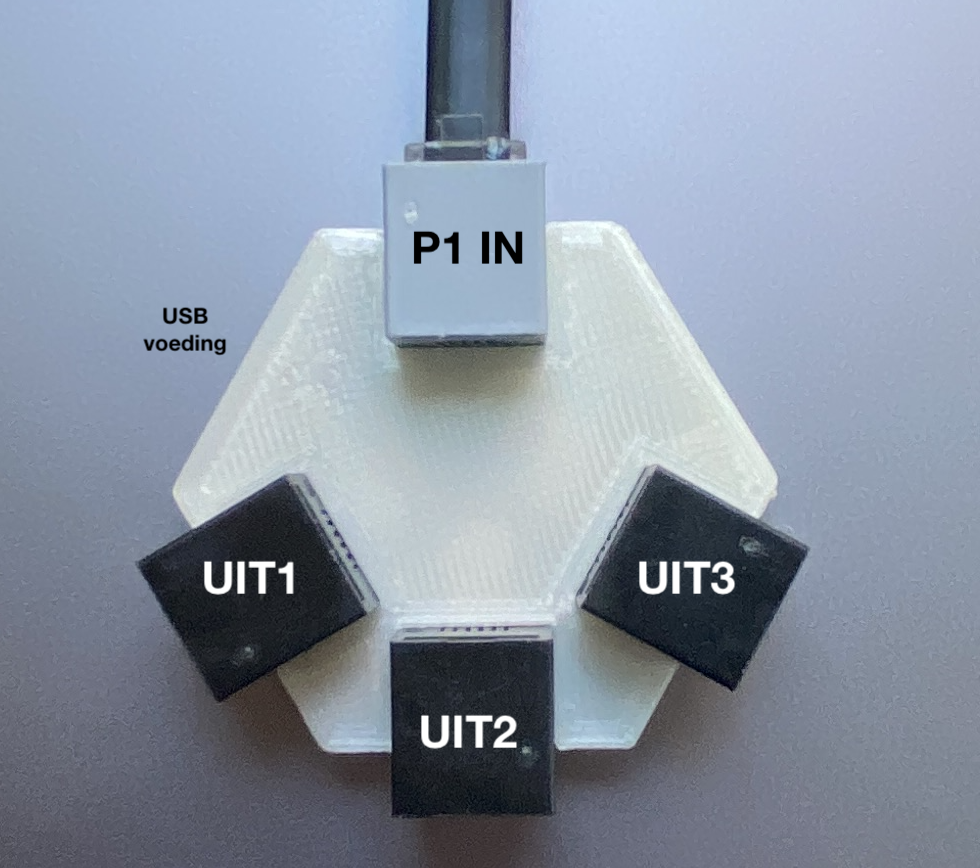
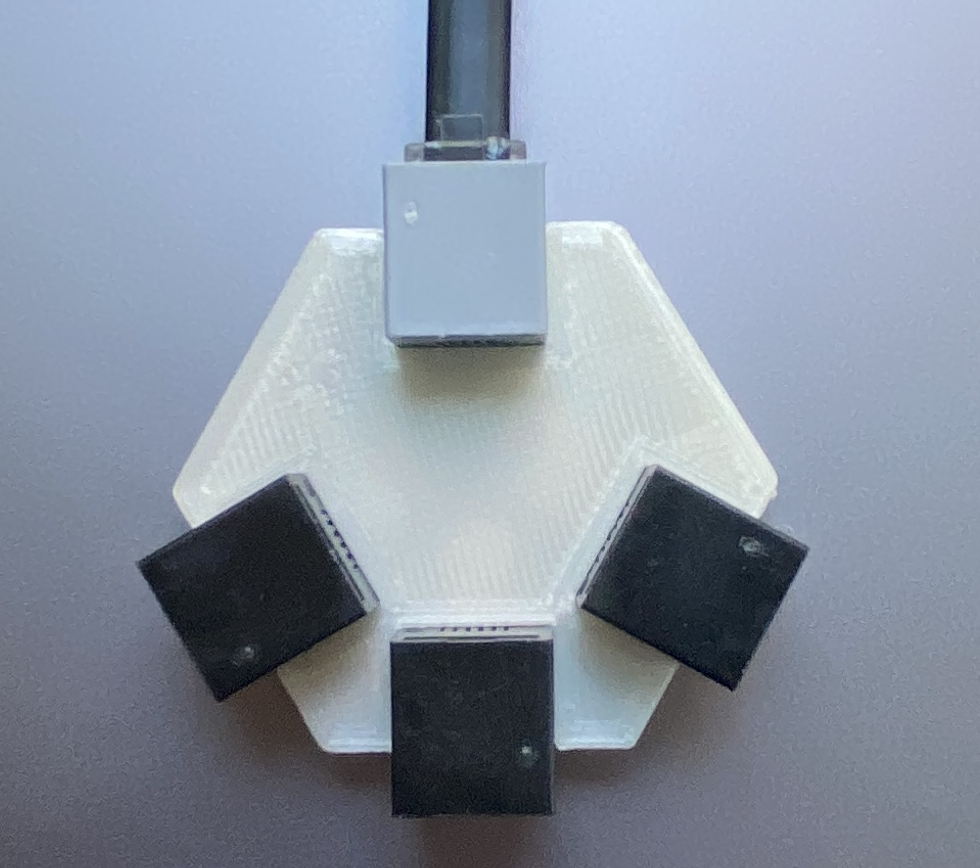
no message

diff --git a/manuals/Waterlezer/README.md b/manuals/Waterlezer/README.md
@@ -27,7 +27,7 @@ Watermeters met een metalen plaatje op de kleine wijzer zijn geschikt voor deze 
 Ook dient de sensor zo te zitten dat deze 1 keer per omwenteling een signaal opneemt. Dit kan je aan de sensor zien doordat het rode lampje gaat branden. Sensor zit normaal gesproken recht boven deze wijzer maar dan iets verschoven van het midden van deze wijzer.
 Maak de sensor vast met meegeleverde klittenband of met de sensor houder, zie onderstaande montage wijze.
 
-<img src="afb/montage.jpeg" width="40%">
+<img src="afb/montage_sensor.png" width="40%">
 
 >**TIP**<br>
 >Zet de kraan een beetje open om te checken of de sensor goed zit.<br>
